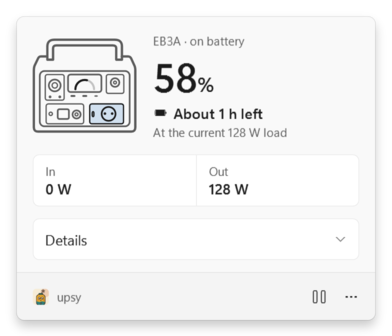
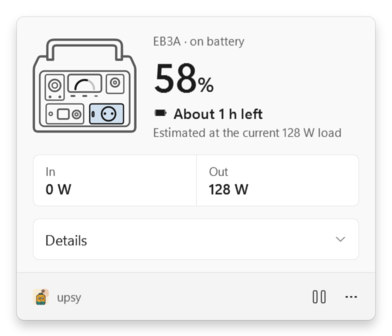
docs: add the energy calibration tool and document estimated times

Changed region(s): [[0.3673, 0.3571, 0.8878, 0.4167]]

diff --git a/tools/energy_calibration.py b/tools/energy_calibration.py
@@ -1,0 +1,100 @@
+"""Work out a station's capacity factors from the energy lines in upsy.log.
+
+While a station charges or discharges into a load, upsy logs one line a minute, for example:
+
+  2026-10-20 10:15:02 INFO EB3A discharge: 72%, in 0 W, out 88 W, -88 W net, 23.1 Wh in 15 min
+  2026-10-20 13:40:07 INFO EB3A charge: 47%, in 309 W, out 88 W, +221 W net, 54.3 Wh in 15 min
+
+The energy is integrated over every 2 s sample, so a load that cycles (a boiler compressor) is counted exactly.
+From the last discharge and the last charge of a station this prints:
+
+  usable factor     = energy out / (percent lost x capacity)    -> StationProfile.UsableFactor (runtime)
+  charge efficiency = (percent gained x capacity) / energy in   -> StationProfile.ChargeEfficiency (time to full)
+
+Run: python tools/energy_calibration.py [--station EB3A] [--log %LOCALAPPDATA%\\upsy\\upsy.log]
+"""
+import argparse
+import os
+import re
+import statistics
+from pathlib import Path
+
+CAPACITY_WH = {"EB3A": 268, "DELTA 2": 1024}
+LINE = re.compile(
+    r"^(?P<ts>\S+ \S+) INFO (?P<name>.+?) (?P<dir>charge|discharge): (?P<pct>\d+)%, in (?P<inw>\d+) W, "
+    r"out (?P<outw>\d+) W, (?P<net>[+-]?\d+) W net, (?P<wh>[\d.]+) Wh in (?P<min>\d+) min$"
+)
+# The station reports whole percent; a short run gives a coarse answer.
+MIN_PERCENT = 20
+
+
+def read_runs(lines, station):
+    """Group consecutive lines of one direction into runs; a run restarts when its minute counter goes back."""
+    runs = []
+    for line in lines:
+        m = LINE.match(line.strip())
+        if not m or m["name"] != station:
+            continue
+        row = {k: m[k] for k in ("ts", "dir")} | {
+            "pct": int(m["pct"]), "inw": int(m["inw"]), "outw": int(m["outw"]),
+            "net": int(m["net"]), "wh": float(m["wh"]), "min": int(m["min"]),
+        }
+        last = runs[-1][-1] if runs else None
+        if last is None or last["dir"] != row["dir"] or row["min"] <= last["min"]:
+            runs.append([row])
+        else:
+            runs[-1].append(row)
+    return runs
+
+
+def summarise(run, capacity):
+    first, last = run[0], run[-1]
+    percent = abs(last["pct"] - first["pct"])
+    energy = last["wh"] - first["wh"]
+    nets = [r["net"] for r in run]
+    share = percent / 100 * capacity
+    if run[0]["dir"] == "discharge":
+        factor = energy / share if share else None
+        name = "usable factor"
+    else:
+        factor = share / energy if energy else None
+        name = "charge efficiency"
+    return {
+        "name": name, "factor": factor, "percent": percent, "energy": energy,
+        "from": first["pct"], "to": last["pct"], "minutes": last["min"] - first["min"],
+        "start": first["ts"], "net_min": min(nets), "net_max": max(nets),
+        "net_mean": statistics.fmean(nets), "net_sd": statistics.pstdev(nets),
+    }
+
+
+def main():
+    parser = argparse.ArgumentParser(description=__doc__, formatter_class=argparse.RawDescriptionHelpFormatter)
+    parser.add_argument("--station", default="EB3A")
+    parser.add_argument("--log", default=os.path.join(os.environ.get("LOCALAPPDATA", ""), "upsy", "upsy.log"))
+    parser.add_argument("--capacity", type=float, help="nominal Wh (default: known value for the station)")
+    args = parser.parse_args()
+
+    capacity = args.capacity or CAPACITY_WH.get(args.station)
+    if not capacity:
+        raise SystemExit(f"unknown capacity for {args.station}; pass --capacity")
+
+    paths = [Path(args.log + ".1"), Path(args.log)]  # the rotated part first
+    lines = [line for p in paths if p.exists() for line in p.read_text(encoding="utf-8").splitlines()]
+    runs = read_runs(lines, args.station)
+    if not runs:
+        raise SystemExit(f"no energy lines for {args.station} in {args.log}")
+
+    for direction in ("discharge", "charge"):
+        last = next((r for r in reversed(runs) if r[0]["dir"] == direction and len(r) > 1), None)
+        if last is None:
+            print(f"{direction}: no complete run logged")
+            continue
+        s = summarise(last, capacity)
+        warn = "  (short run: the answer is coarse)" if s["percent"] < MIN_PERCENT else ""
+        print(f"{direction}: {s['from']}% -> {s['to']}% in {s['minutes']} min from {s['start']}, {s['energy']:.1f} Wh{warn}")
+        print(f"  net power {s['net_mean']:+.0f} W mean, {s['net_min']:+d} .. {s['net_max']:+d} W, sd {s['net_sd']:.0f} W")
+        print(f"  {s['name']}: {s['factor']:.3f}" if s["factor"] else f"  {s['name']}: not enough change to compute")
+
+
+if __name__ == "__main__":
+    main()

diff --git a/openspec/changes/add-eb3a-time-to-full/tasks.md b/openspec/changes/add-eb3a-time-to-full/tasks.md
@@ -2,25 +2,25 @@
 
 ## 0. Design
 
-- [ ] 0.1 Update `design/upsy.design.html` and DESIGN.md "Copy rules" for station values versus estimates (decision 3): EB3A battery/low/charging frames, DELTA 2 frames in #multi, tooltip and notification boards; verify by rendering both themes and running the impeccable detector (`[]`)
+- [x] 0.1 Update `design/upsy.design.html` and DESIGN.md "Copy rules" for station values versus estimates (decision 3): EB3A battery/low/charging frames, DELTA 2 frames in #multi, tooltip and notification boards; verify by rendering both themes and running the impeccable detector (`[]`)
 
 ## 1. Estimate and wording
 
-- [ ] 1.1 Move `UsableFactor` into `StationProfile` and add `ChargeEfficiency` (EB3A 0.85 / 0.75 provisional, DELTA 2 1.0 / 1.0); verify a catalog test reads them and existing runtime tests still pass
-- [ ] 1.2 Add `TimeEstimate` and the charge side of `RuntimeEstimator` (3-minute average of net charge power, 60 s warm-up, reported `ToFull` wins as a station value, null when not charging, 24 h cap); `EstimateToEmpty` marks a reported `ToEmpty` as a station value. Verify tests:
+- [x] 1.1 Move `UsableFactor` into `StationProfile` and add `ChargeEfficiency` (EB3A 0.85 / 0.75 provisional, DELTA 2 1.0 / 1.0); verify a catalog test reads them and existing runtime tests still pass
+- [x] 1.2 Add `TimeEstimate` and the charge side of `RuntimeEstimator` (3-minute average of net charge power, 60 s warm-up, reported `ToFull` wins as a station value, null when not charging, 24 h cap); `EstimateToEmpty` marks a reported `ToEmpty` as a station value. Verify tests:
   - 54%, 390 W in, 126 W out after a minute gives 268 × 0.46 ÷ (264 × efficiency);
   - nothing before 60 s;
   - nothing when input equals output below 100%;
   - a 40 ↔ 130 W output cycle moves the estimate less than a direct recompute would;
   - reported values come back as station values.
-- [ ] 1.3 Word times by source in `StatusText` (headline, line under it, tooltip, alerts) and in the `StationView` Details rows ("(station)" / "(estimated)"); verify `StatusText` tests for every row of decision 3, the exact formatting ("1 h 13 min", "45 min") and the existing rounding tests
-- [ ] 1.4 Pass both estimates from `TrayApp` (views, alerts, flyout sections) and update `--render` previews; verify renders of EB3A battery, EB3A charging and DELTA 2 against the updated canvas frames
+- [x] 1.3 Word times by source in `StatusText` (headline, line under it, tooltip, alerts) and in the `StationView` Details rows ("(station)" / "(estimated)"); verify `StatusText` tests for every row of decision 3, the exact formatting ("1 h 13 min", "45 min") and the existing rounding tests
+- [x] 1.4 Pass both estimates from `TrayApp` (views, alerts, flyout sections) and update `--render` previews; verify renders of EB3A battery, EB3A charging and DELTA 2 against the updated canvas frames
 
 ## 2. Energy log
 
-- [ ] 2.1 Implement `EnergyLog` in Core (charge and discharge runs, every sample integrated, gaps over 10 s skipped, one summary a minute, new run after a minute idle or a change of direction); verify tests with a fake clock: energy over a cycling load equals the integral, idle writes nothing, direction change and long gaps start new runs
+- [x] 2.1 Implement `EnergyLog` in Core (charge and discharge runs, every sample integrated, gaps over 10 s skipped, one summary a minute, new run after a minute idle or a change of direction); verify tests with a fake clock: energy over a cycling load equals the integral, idle writes nothing, direction change and long gaps start new runs
 - [ ] 2.2 Write the summaries from `TrayApp` as `<name> <charge|discharge>: <pct>%, in <W> W, out <W> W, <±W> W net, <Wh> Wh in <min> min`; verify with the running EB3A that discharge or charge lines appear once a minute
-- [ ] 2.3 Add `tools/energy_calibration.py` (last complete discharge and charge runs → usable factor, charge efficiency, net spread); verify on a synthetic log with a known answer
+- [x] 2.3 Add `tools/energy_calibration.py` (last complete discharge and charge runs → usable factor, charge efficiency, net spread); verify on a synthetic log with a known answer
 
 ## 3. Calibration and docs
 

diff --git a/README.md b/README.md
@@ -93,7 +93,11 @@ PowerReading, RuntimeEstimator, AlertMonitor, StatusText, settings v2
 - **Derived state.**
   - *On mains* = AC input voltage above 100 V. Power can be 0 W on a live socket when the battery is full.
   - *Charging* = total input minus total output above 10 W, below 100%. This covers solar/DC input too.
-  - *Runtime*: the DELTA 2 reports its own time to empty and to full, and upsy uses it. For the EB3A, upsy estimates it as capacity × 0.85 × battery % ÷ discharge power, smoothed over about a minute. Either way it is shown as "about …", rounded to 5 or 10 minutes, only on battery with a load.
+  - *Runtime and time to full*: the DELTA 2 reports both, and upsy shows them as reported, to the minute ("7 h 11 min left", Details "(station)"). For the EB3A upsy estimates them and says so ("about 1 h left (estimated)", "Full in about 35 min, estimated"):
+    - runtime = capacity × usable factor × battery % ÷ discharge power, smoothed over about a minute;
+    - time to full = capacity × (100 − battery %) ÷ (net charge power × charge efficiency), with net = input − output smoothed over about 3 minutes, so a load that cycles does not jump the number. It is shown after a minute of charging, and not while charging is paused (net 10 W or less).
+
+    Estimates are rounded to 5/10 minutes. Runtime is shown only on battery with a load.
 - **Resilience.**
   - Retries with backoff up to 30 s.
   - Reconnects after PC sleep and reports Bluetooth off.
@@ -130,7 +134,7 @@ src/Upsy               tray app: WinRT BLE, WinForms NotifyIcon, WPF flyout and 
 tests/Upsy.Core.Tests  xUnit v3 tests on real captures (EB3A registers, DELTA 2 heartbeats) and a fake EcoFlow station
 design/                HTML/CSS mock-up of every surface (the UI reference)
 assets/                brand (mascot, icon) and the station drawings, as SVG
-tools/                 installer, key table fetcher, station glyph generator
+tools/                 installer, key table fetcher, station glyph generator, energy calibration
 openspec/              specs and the changes that built this
 ```
 
@@ -162,6 +166,22 @@ Design decisions live in [DESIGN.md](DESIGN.md) and [design/upsy.design.html](de
 - **Going back to an older upsy.** The first start of this version moves `settings.json` to version 2 and keeps the old file as `settings.v1.json`; restore it before running an older build.
 - **Something odd happened overnight.** Read `%LOCALAPPDATA%\upsy\upsy.log`.
 
+### Calibrating a station's estimates
+
+While a station charges, or discharges into a load on battery, upsy writes one line a minute to its log. The energy is integrated over every sample, so a cycling load is counted exactly:
+
+```
+2026-10-20 10:15:02 INFO EB3A discharge: 72%, in 0 W, out 88 W, -88 W net, 23.1 Wh in 15 min
+2026-10-20 13:40:07 INFO EB3A charge: 47%, in 309 W, out 88 W, +221 W net, 54.3 Wh in 15 min
+```
+
+After a long discharge (say 100% to 40%) and a charge back to 100%, `python tools/energy_calibration.py` prints:
+- the usable factor (runtime estimate);
+- the charge efficiency (time-to-full estimate);
+- the spread of net power in each run.
+
+The two factors are set per model in `StationCatalog`.
+
 ## Status and roadmap
 
 - **EB3A** works end to end. Mains unplug and replug raise the expected alerts.
@@ -171,7 +191,7 @@ Design decisions live in [DESIGN.md](DESIGN.md) and [design/upsy.design.html](de
   - recovery after sleep and after toggling Bluetooth on the PC or a station;
   - handing a station to its phone app with Pause;
   - how toasts behave under Do Not Disturb.
-- **To calibrate:** the EB3A runtime's 0.85 factor, from a logged discharge.
+- **To calibrate:** the EB3A usable factor (0.85) and charge efficiency (0.75), both provisional, from one logged discharge and charge.
 
 Later: other EcoFlow models on the same protocol (DELTA 2 Max, River 2/3, DELTA 3), more Bluetti models, a combined "total backup" view, and hibernating or shutting down the PC at critical charge.
 
